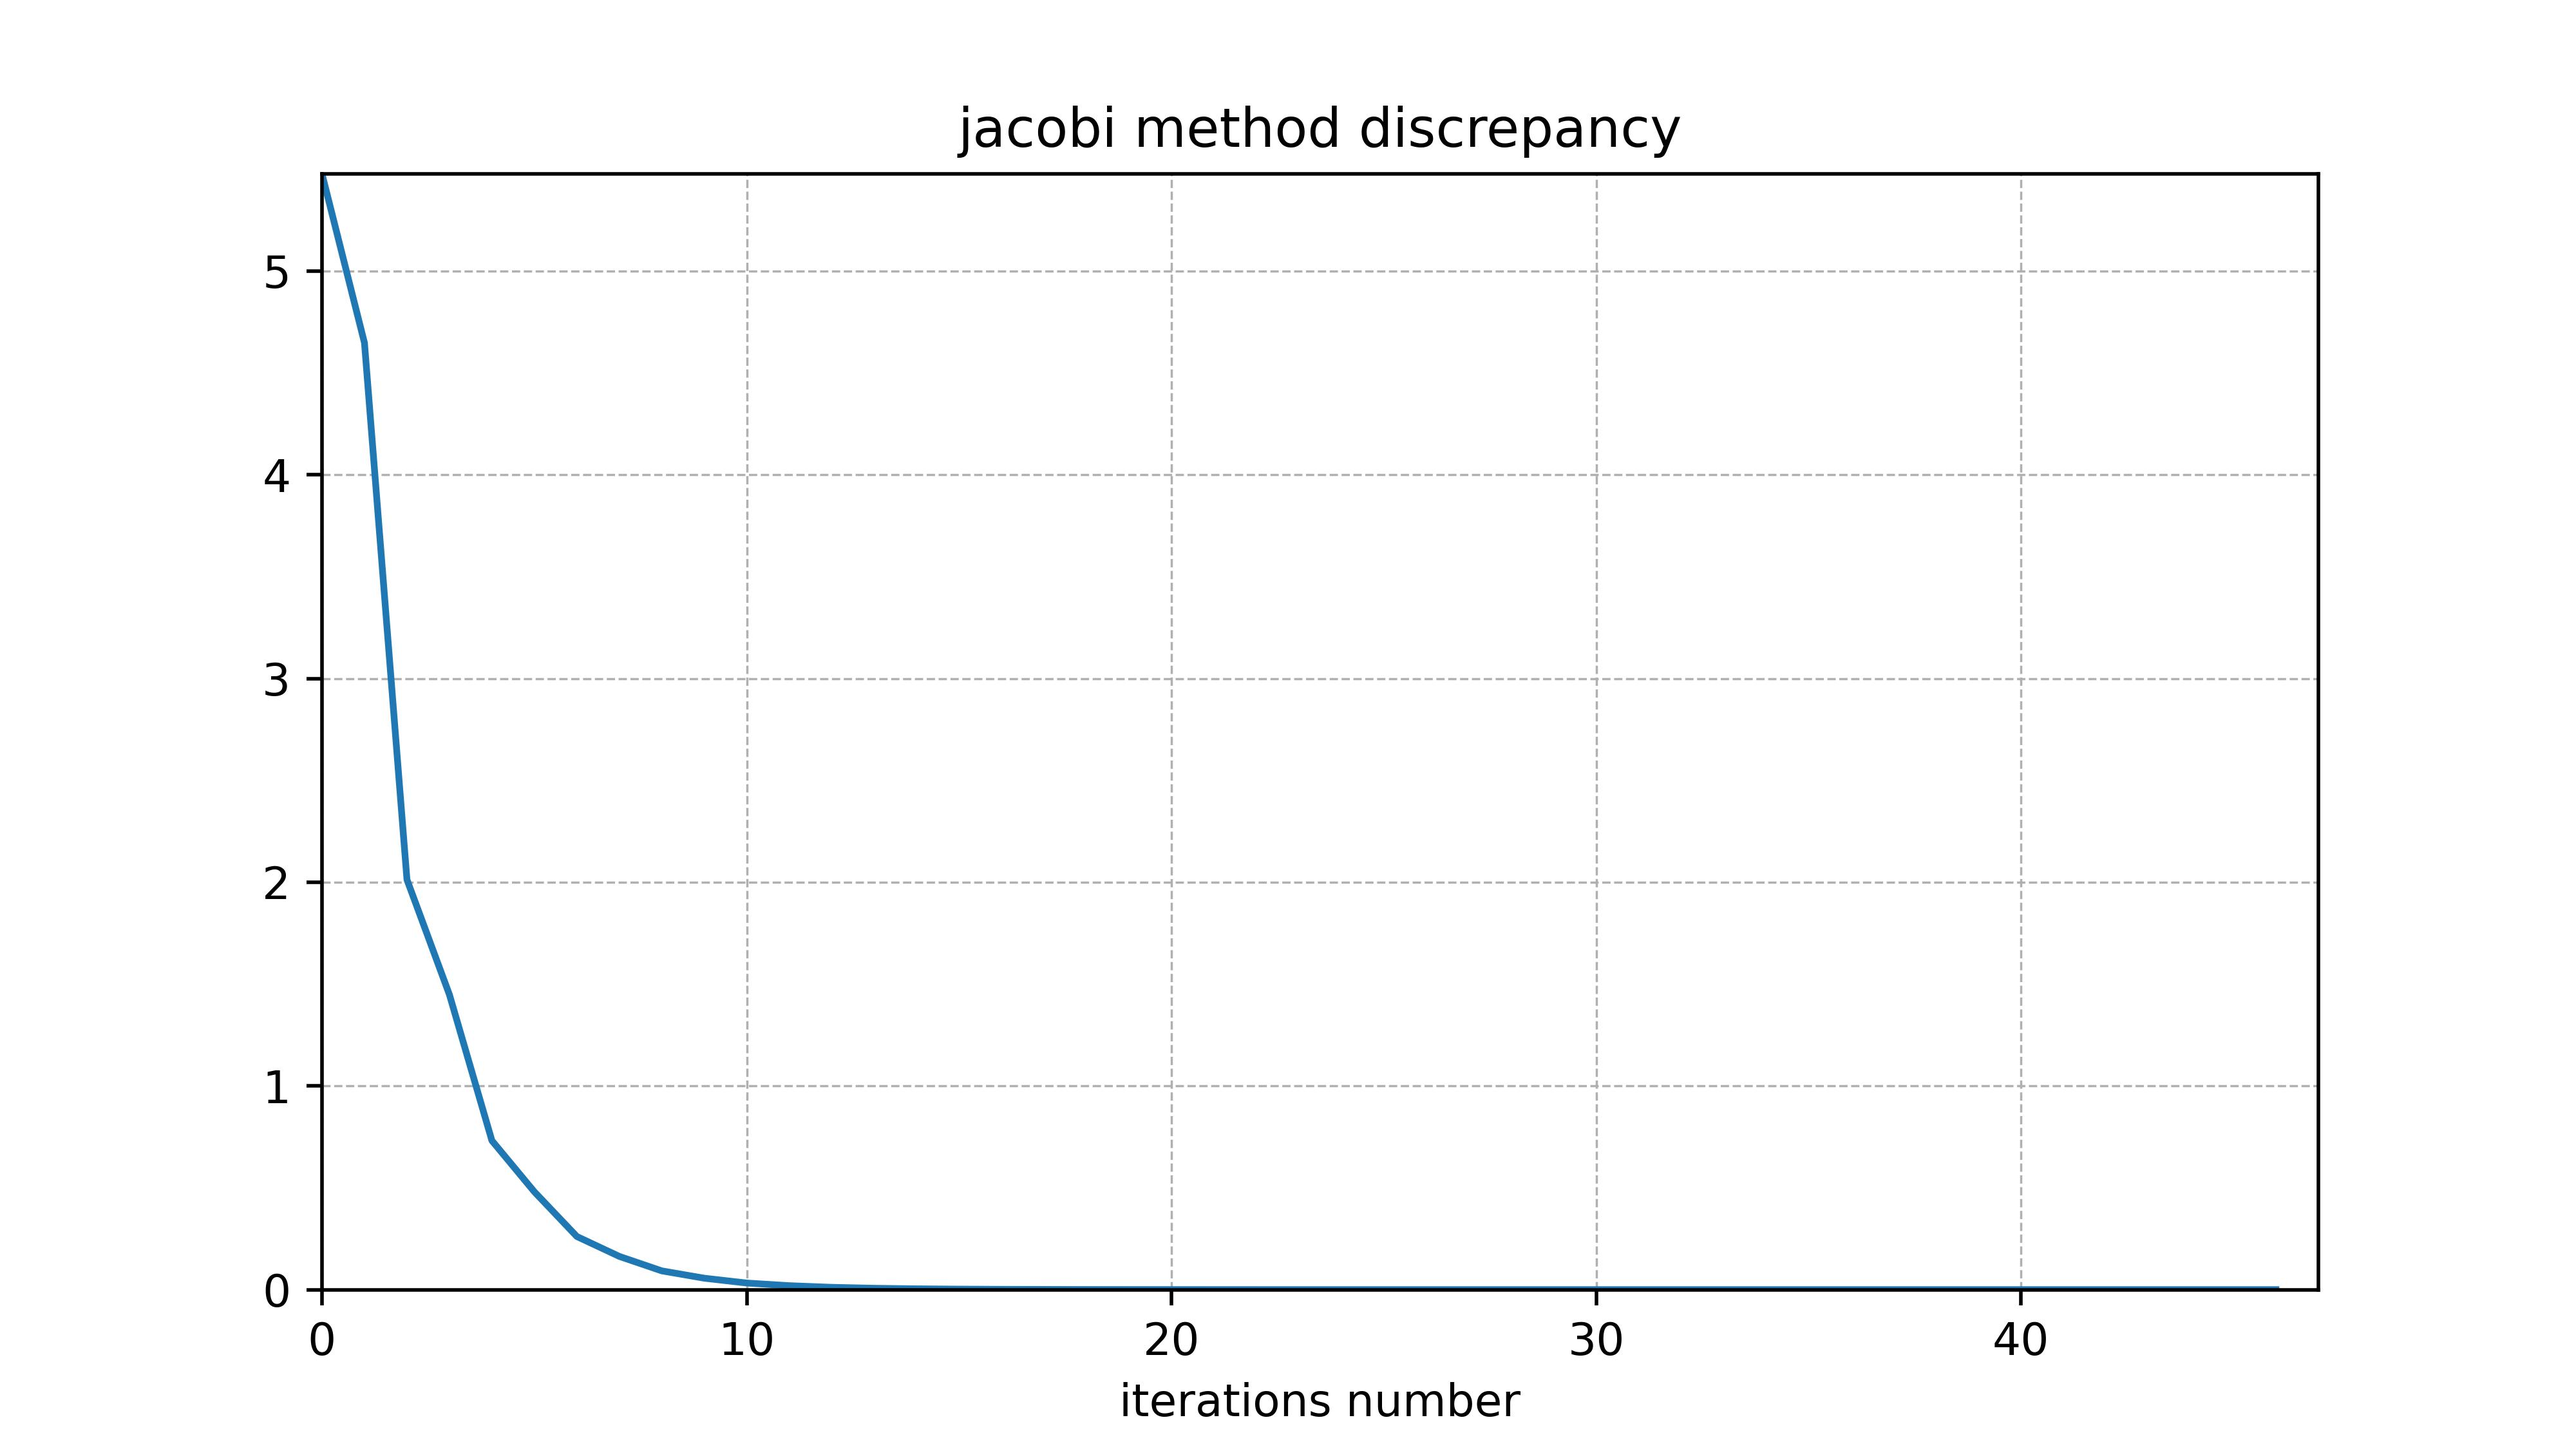
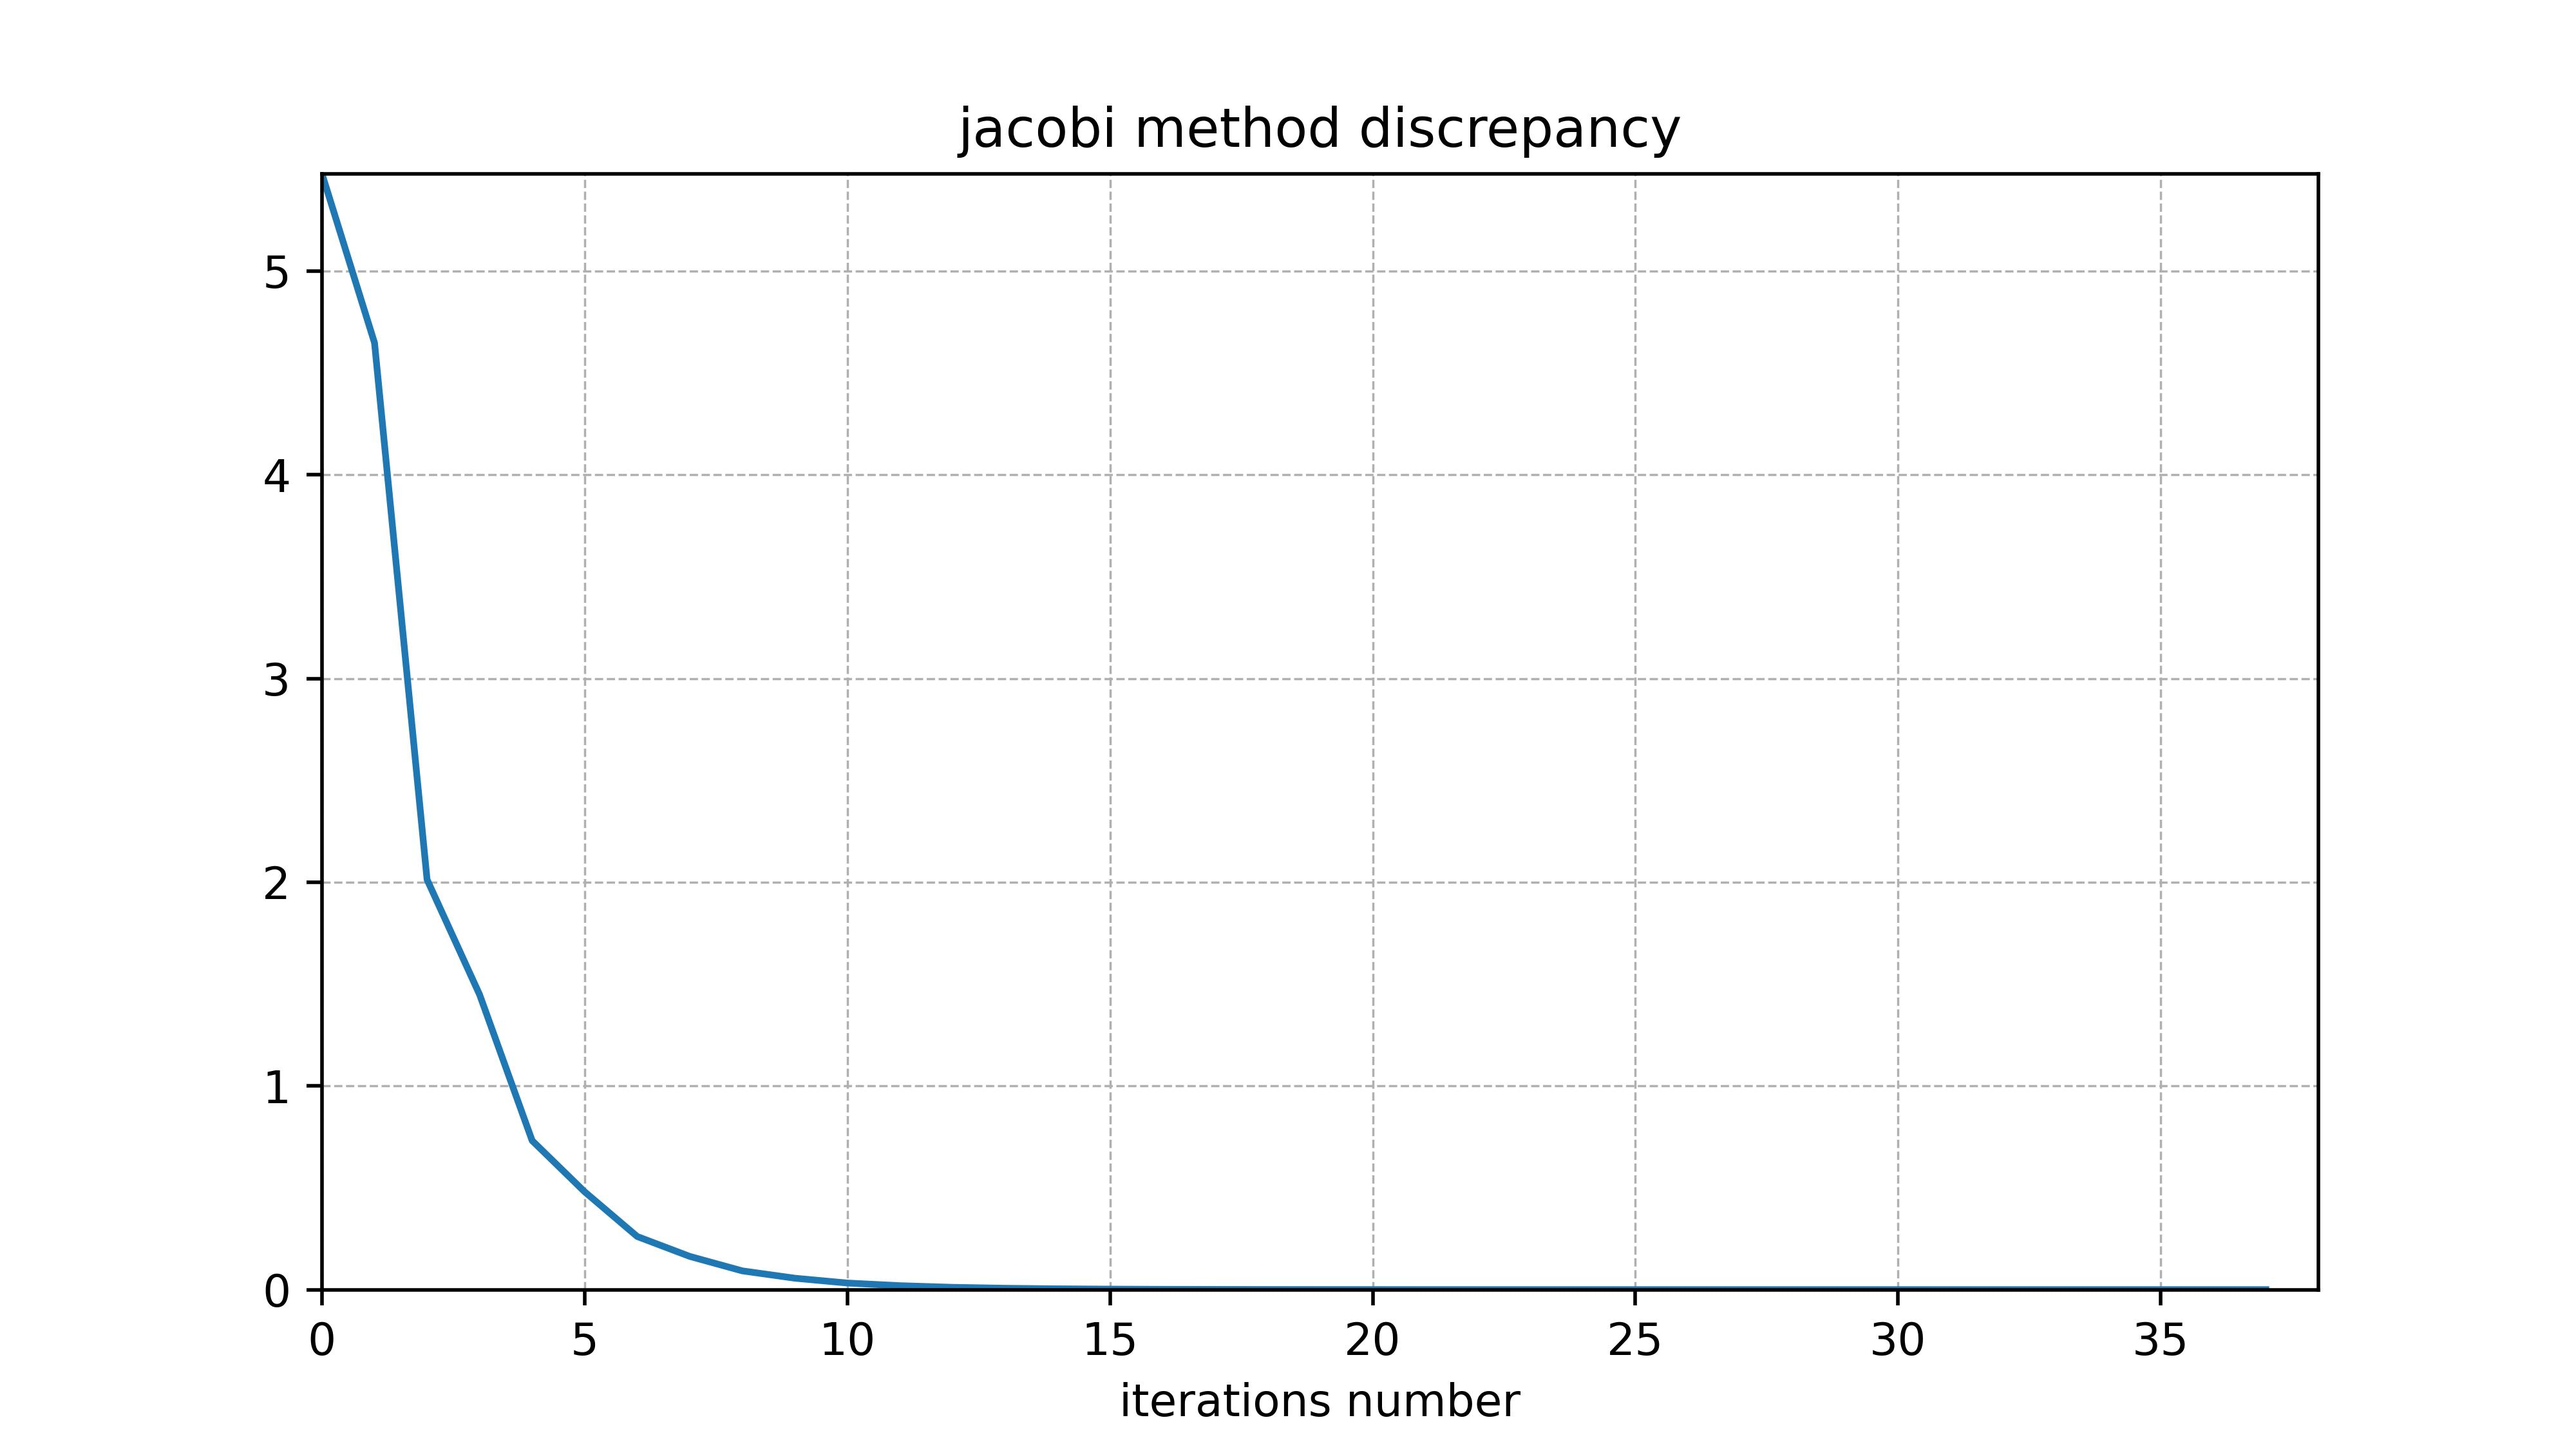
Lab2: Changed criteria value

diff --git a/lab2/succ_over_relaxation.py b/lab2/succ_over_relaxation.py
@@ -1,0 +1,59 @@
+import numpy as np
+from scipy import linalg
+
+from matrix_init import _initMatrix_, _initValue_, m_getErrorMatrixNorm,\
+                        builPlot
+
+residual_convergence = 1e-8
+
+def sor_solver(A, b, omega, initial_guess, convergence_criteria):
+    """
+    This is an implementation of the pseudo-code provided in the Wikipedia article.
+    Arguments:
+        A: nxn numpy matrix.
+        b: n dimensional numpy vector.
+        omega: relaxation factor.
+        initial_guess: An initial solution guess for the solver to start with.
+        convergence_criteria: The maximum discrepancy acceptable to regard the current solution as fitting.
+    Returns:
+        phi: solution vector of dimension n.
+    """
+    step = 0
+    phi = initial_guess[:]
+    residual = linalg.norm(A @ phi - b)  # Initial residual
+    
+    all_errors_list = []
+    
+    while residual > convergence_criteria:
+        
+        all_errors_list.append(m_getErrorMatrixNorm(A, phi, b))
+
+        for i in range(A.shape[0]):
+            sigma = 0
+            for j in range(A.shape[1]):
+                if j != i:
+                    sigma += A[i, j] * phi[j]
+            phi[i] = (1 - omega) * phi[i] + (omega / A[i, i]) * (b[i] - sigma)
+        residual = linalg.norm(A @ phi - b)
+        step += 1
+        print("Step {} Residual: {:10.6g}".format(step, residual))
+    
+    builPlot(all_errors_list, 'relaxation')
+    
+    return phi
+
+# An example case that mirrors the one in the Wikipedia article
+omega = 0.5  # Relaxation factor
+
+# initialize the matrix
+A = np.array(_initMatrix_())
+
+# initialize the RHS vector
+b = np.array(_initValue_())
+
+initial_guess = np.zeros_like(b, np.float_)
+
+phi = sor_solver(A, b, omega, initial_guess, residual_convergence)
+print(phi)
+
+

diff --git a/lab2/jacobi_method.py b/lab2/jacobi_method.py
@@ -36,7 +36,7 @@ for it_count in range(ITERATION_LIMIT):
         if x_new[i] == x_new[i-1]:
           break
 
-    if np.allclose(x, x_new, atol=1e-10, rtol=0.):
+    if np.allclose(x, x_new, atol=1e-8, rtol=0.):
         break
 
     x = x_new
